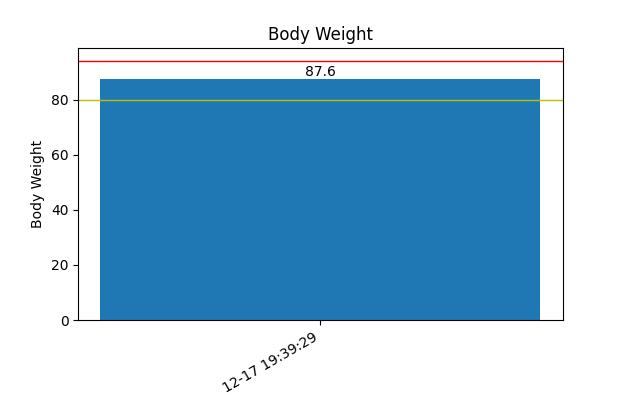
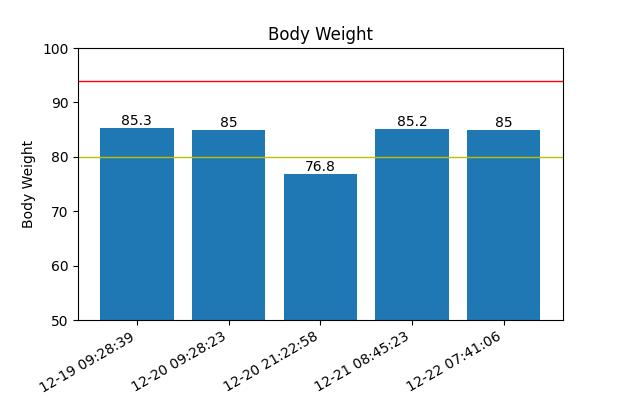
Latest version

diff --git a/body_weight.py b/body_weight.py
@@ -62,6 +62,11 @@ class WeightHistoryPlotter:
         # giving a title to my graph
         matplotlib.pyplot.title('Body Weight')
 
+        ymax = round(start_weight+10, -1)
+        ymin = round(target_weight -30, -1)
+
+        matplotlib.pyplot.ylim ([ymin,ymax])
+
         matplotlib.pyplot.savefig(file_name)
 
 
@@ -90,18 +95,32 @@ class WeightHistoryFrame(tk.Frame):
 
         self.frame = frame
 
-        #temp_label = tk.Label(self.frame, text="Temp", fg="Black", font=("Helvetica", 15))
-        #temp_label.grid(column=0, row=0)
-
         # Create the Food Data Tree
         history_tree_frame = tk.Frame(self.frame)
         self.create_weight_history_tree(history_tree_frame)
         history_tree_frame.grid(column=0, row=0)
         self.last_weight_history = None
 
+        delete_btn = tk.Button(self.master, text="Del", command=self.del_entry, font=("Helvetica", 15), width=5)
+        delete_btn.grid(column=0, row=1)
+
         self.bathroom_scale_if = bathroom_scale_if.BathroomScaleIF(bathroom_scale_if_ip_port)
         self.bathroom_scale_if.daemon = True
         self.bathroom_scale_if.start()
+
+    def del_entry(self):
+        print("delete")
+        selected = self.history_tree.selection()
+        # print(selected)
+        if len(selected) != 0:
+            chosen_entry = self.history_tree.item(selected[0])
+            print(chosen_entry)
+            db_id, date, user, weight = chosen_entry["values"]
+            # print(self.weight)
+            print(db_id, date, user, weight)
+
+            # Delete the selected item from the database
+            self.bathroom_scale_if.delete_entry(db_id)
 
     # Create the tree view object.
     def create_weight_history_tree(self, history_tree_frame):
@@ -115,7 +134,7 @@ class WeightHistoryFrame(tk.Frame):
 
         # Create the meal TreeView, which tracks the meal
         self.history_tree = ttk.Treeview(history_tree_frame, columns=('db_id','Date', 'User', 'Weight'),
-                                           show='headings', height=18)
+                                           show='headings', height=16)
 
         self.history_tree["displaycolumns"] = ('Date', 'Weight')
 
@@ -156,10 +175,10 @@ class WeightHistoryFrame(tk.Frame):
 
         for record in weight_history:
             if index %2:
-                self.history_tree.insert(parent='', index=index, values=(0, record[1], record[2], record[3]),
+                self.history_tree.insert(parent='', index=index, values=(record[0], record[1], record[2], record[3]),
                                          tags=('even'))
             else:
-                self.history_tree.insert(parent='', index=index, values=(0, record[1], record[2], record[3]),
+                self.history_tree.insert(parent='', index=index, values=(record[0], record[1], record[2], record[3]),
                                          tags=('odd'))
             index = index + 1
 

diff --git a/bathroom_scale_if.py b/bathroom_scale_if.py
@@ -98,6 +98,12 @@ class BathroomScaleIF(threading.Thread):
         else:
             return ret_list[:-num_records]
 
+    # Deletes the record entry in the database according to ID
+    def delete_entry(self, db_id):
+        self.body_weight_db.execute("DELETE FROM BodyWeightHistory WHERE id = ?", (db_id,))
+        print(f"Deleted {db_id}")
+        self.body_weight_db.commit()
+
 
 if __name__ == '__main__':
 
